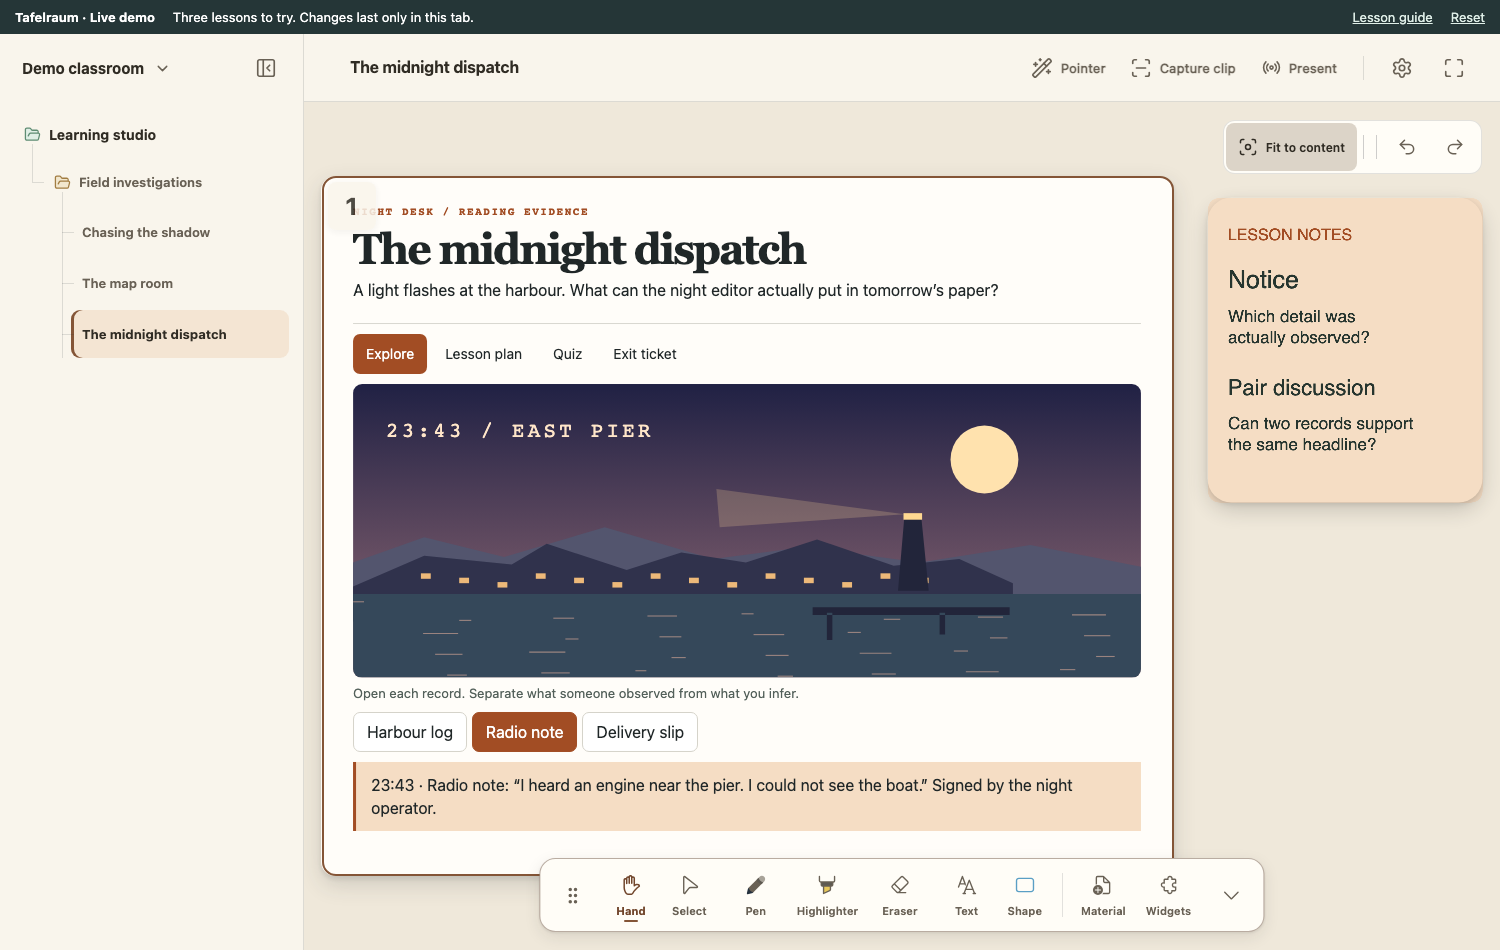
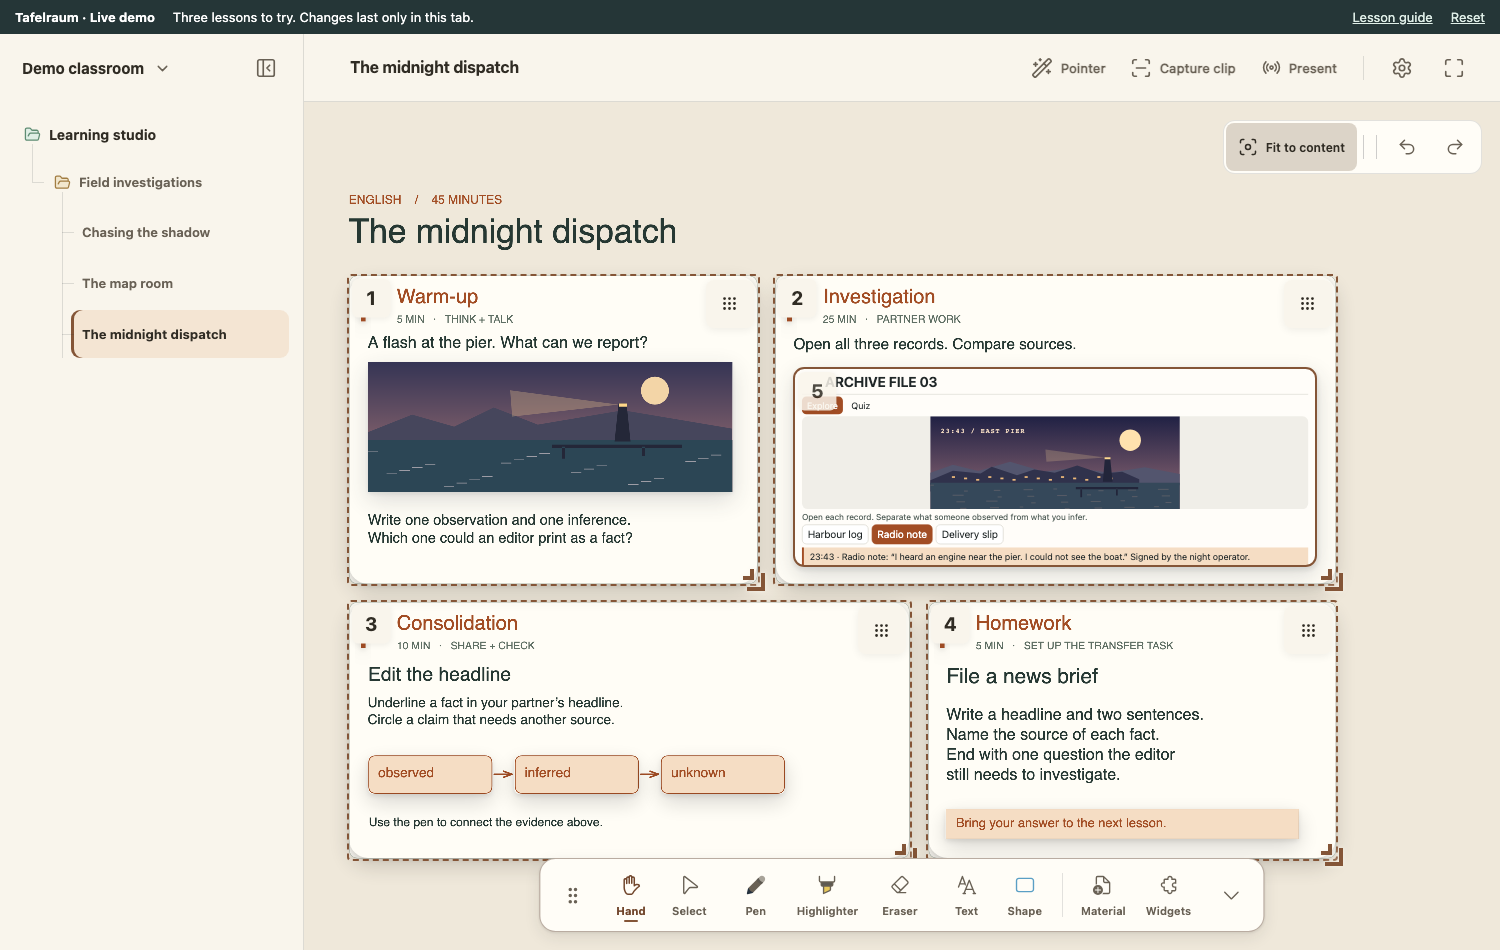
Teach from four canvas phases with pictures, a field sheet and an optional eclipse film

diff --git a/preview/guide.html b/preview/guide.html
@@ -1,1 +1,1 @@
-<!doctype html><html lang="en"><meta charset="utf-8"><meta name="viewport" content="width=device-width,initial-scale=1"><title>Tafelraum · Lesson guide</title><style>*{box-sizing:border-box}body{margin:0;background:#f5f0e7;color:#223430;font:17px/1.55 system-ui,sans-serif}main{max-width:780px;margin:7vh auto;padding:24px}h1{font:56px/1 Georgia,serif;letter-spacing:-.05em}a{color:#145649}article{background:#fffdf8;border-radius:12px;padding:14px 22px;margin:14px 0}h2{margin:0;font:26px Georgia,serif}small{display:block;color:#52645c;font-size:13px;margin-bottom:6px}</style><main><small>TAFELRAUM / PUBLIC PREVIEW</small><h1>Field investigations</h1><p>Try three 45-minute lessons on the real teacher canvas. Use the hand tool to operate each activity. Explore the diagram, open <b>Quiz</b>, then try <b>Present → Room Canvas</b> and select clip 1 to see just the material.</p><article><small>EARTH SCIENCE</small><h2><a href="/?lesson=eclipse">Chasing the shadow</a></h2><p>Move the Moon through three positions and explain who sees a solar eclipse.</p><a href="/api/archive/lessons/eclipse/materials/interactive/eclipse/index.html">Open just the activity</a></article><article><small>MATHEMATICS</small><h2><a href="/?lesson=map-room">The map room</a></h2><p>Trace two survey trails and use the scale to choose a route under a time limit.</p><a href="/api/archive/lessons/map-room/materials/interactive/map-room/index.html">Open just the activity</a></article><article><small>ENGLISH</small><h2><a href="/?lesson=dispatch">The midnight dispatch</a></h2><p>Compare three harbour records and decide which headline the evidence supports.</p><a href="/api/archive/lessons/dispatch/materials/interactive/dispatch/index.html">Open just the activity</a></article><p>You can draw, navigate and try the activities. Reloading restores the starting lesson. Imports, archive management and agent connections require your own local installation.</p></main></html>
+<!doctype html><html lang="en"><meta charset="utf-8"><meta name="viewport" content="width=device-width,initial-scale=1"><title>Tafelraum · Lesson guide</title><style>*{box-sizing:border-box}body{margin:0;background:#f5f0e7;color:#223430;font:17px/1.55 system-ui,sans-serif}main{max-width:780px;margin:7vh auto;padding:24px}h1{font:56px/1 Georgia,serif;letter-spacing:-.05em}a{color:#145649}article{background:#fffdf8;border-radius:12px;padding:14px 22px;margin:14px 0}h2{margin:0;font:26px Georgia,serif}small{display:block;color:#52645c;font-size:13px;margin-bottom:6px}</style><main><small>TAFELRAUM / PUBLIC PREVIEW</small><h1>Field investigations</h1><p>Each 45-minute board opens with a picture and a question. Follow clips <b>1–4</b> through the warm-up, investigation, consolidation and homework. Use the pen for the board tasks and the hand tool for the activities. In <b>Present → Room Canvas</b>, clip 5 shows the investigation on its own.</p><article><small>EARTH SCIENCE</small><h2><a href="/?lesson=eclipse">Chasing the shadow</a></h2><p>Compare two observers, move the Moon through the model and connect the three bodies with the pen. The optional NASA video loads from YouTube when you select it.</p><a href="/api/archive/lessons/eclipse/materials/interactive/eclipse/index.html">Open just the activity</a></article><article><small>MATHEMATICS</small><h2><a href="/?lesson=map-room">The map room</a></h2><p>Sketch a route, test it on the survey map and fill in the separate trail field sheet. Use clip 6 to project the worksheet.</p><a href="/api/archive/lessons/map-room/materials/interactive/map-room/index.html">Open just the activity</a> · <a href="/api/archive/lessons/map-room/materials/interactive/trail-sheet/index.html">Open the field sheet</a></article><article><small>ENGLISH</small><h2><a href="/?lesson=dispatch">The midnight dispatch</a></h2><p>Annotate the harbour picture, inspect three records and sort claims into observed, inferred and unknown before filing a headline.</p><a href="/api/archive/lessons/dispatch/materials/interactive/dispatch/index.html">Open just the activity</a></article><p>You can draw, navigate and try the activities. Reloading restores the starting lesson. Imports, archive management and agent connections require your own local installation.</p></main></html>

diff --git a/prototypes/surface-shell-a-b/src/preview/PreviewVideo.tsx b/prototypes/surface-shell-a-b/src/preview/PreviewVideo.tsx
@@ -1,0 +1,25 @@
+// Included only by the public preview build. Both windows wait for a visitor gesture.
+import { useState, type ComponentProps, type CSSProperties } from 'react';
+import { YouTubeCanvasPlayer as Player } from '../canvas/YouTubeCanvasPlayer';
+import { RoomMediaLayer as RoomMedia } from '../live/RoomMediaLayer';
+
+function Invitation({style, load}: {style: CSSProperties; load: () => void}) {
+  return <div className="preview-film" style={style}>
+    <span>NASA SPACE PLACE · 2 MIN</span>
+    <strong>What Is a Solar Eclipse?</strong>
+    <button type="button" onClick={load}>▶ Load YouTube video</button>
+    <a href="https://www.youtube.com/watch?v=hyf5JF_VxwM" target="_blank" rel="noopener noreferrer">Watch on YouTube ↗</a>
+  </div>;
+}
+export function YouTubeCanvasPlayer(props: ComponentProps<typeof Player>) {
+  const [enabled,setEnabled]=useState(false);
+  const f=props.frame;
+  if(enabled)return <Player {...props}/>;
+  if(f.covered)return null;
+  return <Invitation load={()=>setEnabled(true)} style={{left:f.centerX,top:f.centerY,width:f.width,height:f.height,transform:`translate(-50%, -50%) rotate(${f.angle}rad)`}}/>;
+}
+export function RoomMediaLayer(props: ComponentProps<typeof RoomMedia>) {
+  const [enabled,setEnabled]=useState(false);
+  if(props.media.kind!=='youtube'||enabled)return <RoomMedia {...props}/>;
+  return <Invitation load={()=>setEnabled(true)} style={{inset:'25%',zIndex:4}}/>;
+}

diff --git a/preview/preview.css b/preview/preview.css
@@ -1,3 +1,4 @@
 #preview-bar{height:34px;box-sizing:border-box;display:flex;align-items:center;gap:18px;padding:0 15px;color:#fff;background:#253637;font:13px system-ui,sans-serif}#preview-bar strong{font-weight:650}#preview-bar a{color:#e0efe8}#preview-bar span{margin-right:auto}body:has(#preview-bar) #root{height:calc(100dvh - 34px);position:relative;overflow:hidden}body:has(#preview-bar) .app-shell{height:100%;min-height:0}#settings-connections-title,#settings-connections-title~*,.archive-add,.lesson-add{display:none!important}
 @media(max-width:720px){#preview-bar{gap:10px;font-size:12px}#preview-bar span{display:none}#preview-bar a:first-of-type{margin-left:auto}}
 .archive-add-button,.archive-subject-create,.archive-trash,.archive-context-menu,.student-notes-trigger,.material-file-input,.archive-class-menu,.archive-class-trigger{display:none!important}
+.preview-film{position:absolute;z-index:3;pointer-events:auto;display:flex;flex-direction:column;align-items:center;justify-content:center;gap:5px;text-align:center;border-radius:9px;background:radial-gradient(ellipse at 75% 18%,#584a75,#25253b 60%);color:#fff6db;font:14px system-ui,sans-serif;overflow:hidden}.preview-film span{font-size:10px;letter-spacing:.12em}.preview-film strong{font:600 18px Georgia,serif}.preview-film button{background:#ffedcb;border:0;border-radius:5px;padding:7px 12px;color:#352b45;cursor:pointer}.preview-film a{color:#f5e6cf;font-size:11px}

diff --git a/README.md b/README.md
@@ -6,7 +6,7 @@
 
 **[Try the live demo](https://tafelraum-demo.jujies.app/guide.html)** · No installation or account needed. Open a lesson, try its HTML activity or send a numbered clip to Room Canvas. Reload to start fresh.
 
-![The teacher’s canvas with a survey map, two trails and a partner task beside the map](docs/images/teacher-canvas.png)
+![The teacher’s canvas with a starter picture, interactive survey map, trail worksheet and homework arranged across four lesson phases](docs/images/teacher-canvas.png)
 
 <details>
 <summary>Explore the three demo lessons</summary>
@@ -17,7 +17,7 @@
 
 ![The midnight dispatch in the teacher view, with a lighthouse illustration, three selectable records and an evidence prompt](docs/images/midnight-dispatch.png)
 
-Each lesson includes a 45-minute plan, a two-question quiz with feedback and an exit ticket. On a phone, choose **Open just the activity** in the lesson guide.
+The numbered clips follow the **warm-up, investigation, consolidation and homework**. Each board mixes editable text and shapes with a starter image and an interactive investigation. Try typing both route distances into the [trail field sheet](https://tafelraum-demo.jujies.app/api/archive/lessons/map-room/materials/interactive/trail-sheet/index.html), or open the optional NASA video on the eclipse board. On a phone, the lesson guide also lets you open each activity by itself.
 
 </details>
 
@@ -80,7 +80,7 @@ The **agent you choose** supplies the AI. Tafelraum gives it tools to work with 
 <details>
 <summary>See the classroom view</summary>
 
-![Room Canvas projecting the eclipse activity: the Moon lines up between the Sun and Earth](docs/images/room-canvas.png)
+![Room Canvas presenting the investigation clip, including the native task and the eclipse model](docs/images/room-canvas.png)
 
 Room Canvas opens a second local window. You can try both windows on one screen before connecting a projector.
 

diff --git a/preview/README.md b/preview/README.md
@@ -1,6 +1,6 @@
 # Public lesson preview
 
-The hosted preview uses the public Tafelraum teacher canvas and Room Canvas with three original English sample lessons. Each has a 45-minute plan, an interactive diagram or evidence set, two quiz questions and an exit ticket. Open the [lesson guide](https://tafelraum-demo.jujies.app/guide.html).
+The hosted preview uses the public Tafelraum teacher canvas and Room Canvas with three original English sample lessons. Each is an editable board with a starter picture, written tasks, an investigation and quiz, a consolidation area and homework. Four numbered clips follow the lesson phases. The map lesson adds a separate interactive field sheet with an A4 print layout; the eclipse board offers [NASA Space Place’s eclipse video](https://spaceplace.nasa.gov/eclipse-snap/en/) through an explicitly activated YouTube player. Open the [lesson guide](https://tafelraum-demo.jujies.app/guide.html).
 
 ## Run a separate preview
 

diff --git a/ASSET_PROVENANCE.md b/ASSET_PROVENANCE.md
@@ -46,3 +46,5 @@ ihre jeweiligen Bedingungen. Technische Beispiele bleiben separat.
 ## Public preview lessons
 
 The eclipse diagram, survey map and harbour illustration are original inline SVGs drawn in [the preview lesson source](preview/lessons/illustrations.mjs). The routes, records and teaching prompts are invented examples. The README screenshots were captured from the public preview's teacher and Room windows with [the browser check](preview/check.mjs). They contain only the bundled sample lessons.
+
+The preview's starter images are original vector scenes from [pictures.mjs](preview/lessons/pictures.mjs). They appear as ordinary image objects on the board. The optional NASA Space Place video is streamed from its original [YouTube publication](https://www.youtube.com/watch?v=hyf5JF_VxwM) after activation. No video bytes or third-party thumbnails are bundled.
